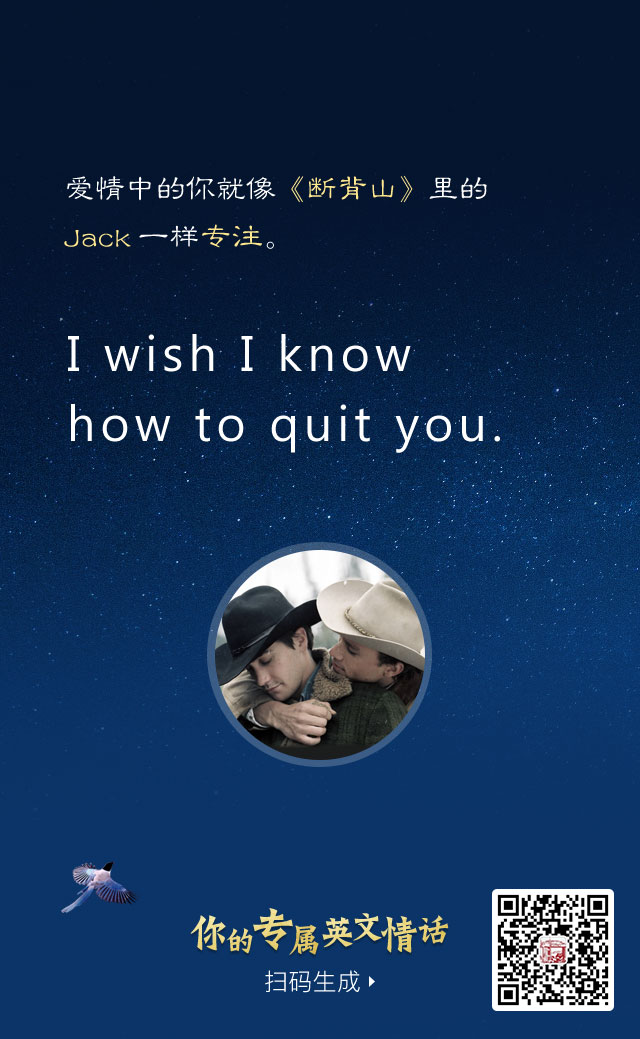
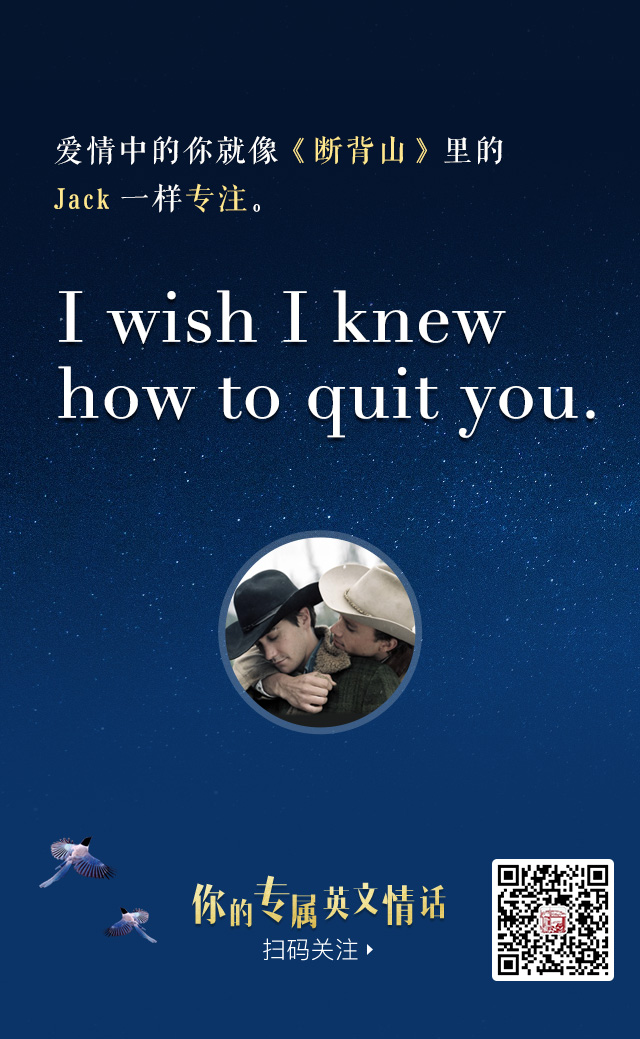
修改

diff --git a/lover/css/index.css b/lover/css/index.css
@@ -1,2 +1,2 @@
-*{padding:0;margin:0}.tipBox{width:100%;height:100%;position:fixed;z-index:100;background:rgba(255,255,255,0);display:flex;flex-direction:column;align-items:center;justify-content:center;top:0;left:0}.tipBox .tibBox_inner{max-width:7.8125rem;background:rgba(0,0,0,0.5)}.tipBox .tibBox_inner p{line-height:.70313rem;font-size:.46875rem;color:#fff;padding:.78125rem;text-align:center}.tip .weui-icon_msg{font-size:3rem;padding-bottom:10px}.weui-toast{position:fixed;z-index:5000;width:4.6875rem;min-height:1.5625rem;top:50%;left:50%;margin-top:-2.34375rem;margin-left:-2.34375rem;background:rgba(17,17,17,0.7);text-align:center;border-radius:5px;color:#FFFFFF}.weui-toast__content{line-height:1.25rem;font-size:15px}.weui-dialog__bd{line-height:2rem}.sign_page_scrollBody::-webkit-scrollbar-track{-webkit-box-shadow:inset 0 0 0px rgba(255,255,255,0.3);border-radius:0px;background-color:rgba(255,255,255,0.3)}.sign_page_scrollBody::-webkit-scrollbar{width:5px;background-color:rgba(0,0,0,0.1)}.sign_page_scrollBody::-webkit-scrollbar-thumb{border-radius:100px;-webkit-box-shadow:inset 0 0 5px #ffffff;background-color:#ffffff}.loading{position:fixed;top:0;left:0;width:100%;height:100%;background:#0c3468;z-index:9999}.loading .progress{position:absolute;color:#ffffff;font-size:20px;width:100%;top:50%;left:0;text-align:center;margin-top:1rem}.loader{position:relative;box-sizing:border-box;display:flex;flex:0 1 auto;flex-direction:column;flex-grow:1;flex-shrink:0;flex-basis:25%;-webkit-display:flex;-webkit-flex:0 1 auto;-webkit-flex-direction:column;-webkit-flex-grow:1;-webkit-flex-shrink:0;-webkit-flex-basis:25%;max-width:60%;height:65px;align-items:center;justify-content:center;margin:0 auto;top:36%}.ball-spin-fade-loader{width:15px;height:15px;position:relative}.ball-spin-fade-loader>div:nth-child(1){top:25px;left:0;-webkit-animation:ball-spin-fade-loader 1s 0s infinite linear;animation:ball-spin-fade-loader 1s 0s infinite linear}.ball-spin-fade-loader>div:nth-child(2){top:17.04545px;left:17.04545px;-webkit-animation:ball-spin-fade-loader 1s 0.12s infinite linear;animation:ball-spin-fade-loader 1s 0.12s infinite linear}.ball-spin-fade-loader>div:nth-child(3){top:0;left:25px;-webkit-animation:ball-spin-fade-loader 1s 0.24s infinite linear;animation:ball-spin-fade-loader 1s 0.24s infinite linear}.ball-spin-fade-loader>div:nth-child(4){top:-17.04545px;left:17.04545px;-webkit-animation:ball-spin-fade-loader 1s 0.36s infinite linear;animation:ball-spin-fade-loader 1s 0.36s infinite linear}.ball-spin-fade-loader>div:nth-child(5){top:-25px;left:0;-webkit-animation:ball-spin-fade-loader 1s 0.48s infinite linear;animation:ball-spin-fade-loader 1s 0.48s infinite linear}.ball-spin-fade-loader>div:nth-child(6){top:-17.04545px;left:-17.04545px;-webkit-animation:ball-spin-fade-loader 1s 0.6s infinite linear;animation:ball-spin-fade-loader 1s 0.6s infinite linear}.ball-spin-fade-loader>div:nth-child(7){top:0;left:-25px;-webkit-animation:ball-spin-fade-loader 1s 0.72s infinite linear;animation:ball-spin-fade-loader 1s 0.72s infinite linear}.ball-spin-fade-loader>div:nth-child(8){top:17.04545px;left:-17.04545px;-webkit-animation:ball-spin-fade-loader 1s 0.84s infinite linear;animation:ball-spin-fade-loader 1s 0.84s infinite linear}.ball-spin-fade-loader>div{background-color:#ffffff;width:15px;height:15px;border-radius:100%;margin:2px;-webkit-animation-fill-mode:both;animation-fill-mode:both;position:absolute}@-webkit-keyframes ball-spin-fade-loader{50%{opacity:0.3;-webkit-transform:scale(0.4);transform:scale(0.4)}100%{opacity:1;-webkit-transform:scale(1);transform:scale(1)}}@keyframes ball-spin-fade-loader{50%{opacity:0.3;-webkit-transform:scale(0.4);transform:scale(0.4)}100%{opacity:1;-webkit-transform:scale(1);transform:scale(1)}}@-webkit-keyframes mapAnimate{0%{background-position:0rem 0rem}100%{background-position:0 -17.53125rem}}@keyframes mapAnimate{0%{background-position:0rem 0rem}100%{background-position:0 -17.53125rem}}@keyframes pulse{0%{-webkit-transform:scale3d(1, 1, 1);-ms-transform:scale3d(1, 1, 1);transform:scale3d(1, 1, 1)}50%{-webkit-transform:scale3d(1.05, 1.05, 1.05);-ms-transform:scale3d(1.05, 1.05, 1.05);transform:scale3d(1.05, 1.05, 1.05)}100%{-webkit-transform:scale3d(1, 1, 1);-ms-transform:scale3d(1, 1, 1);transform:scale3d(1, 1, 1)}}.pulse{-webkit-animation:pulse 1s ease-in infinite;animation:pulse 1s ease-in infinite}@keyframes rotate{0%{-webkit-transform:rotate(0deg);-ms-transform:rotate(0deg);transform:rotate(0deg)}100%{-webkit-transform:rotate(360deg);-ms-transform:rotate(360deg);transform:rotate(360deg)}}.rotate{-webkit-animation:rotate 2s linear infinite;animation:rotate 2s linear infinite}@keyframes drive{0%{left:12.5rem}100%{left:-1.5625rem}}.drive{animation:drive 3s linear both}@keyframes fadeInDown{0%{opacity:0;transform:translate3d(0, -100%, 0)}to{opacity:1;transform:none}}.fadeInDown{animation:fadeInDown 0.5s ease-in both}@keyframes fadeInUp{0%{opacity:0;transform:translate3d(0, 100%, 0)}to{opacity:1;transform:none}}.fadeInUp{animation:fadeInUp 0.5s ease-in both}@keyframes fly{0%{opacity:0;bottom:-12.23438rem}to{opacity:1;bottom:-2.34375rem}}.fly{animation:fly 4s ease-in both}.overPage{animation:overPage 1.5s ease-in infinite}@keyframes overPage{0%{bottom:10%;opacity:1}80%{bottom:3%;opacity:0.8}100%{bottom:0%;opacity:0}}[v-cloak]{display:none}html{width:100%;height:100%}body,#index-box{width:100%;height:100%;overflow:hidden;background:#0c3468}img{width:100%;padding:0;margin:0;display:block}.wrap{margin:0 auto;visibility:hidden}.hide{display:none}.musicBtn{width:.6875rem;height:.6875rem;position:fixed;z-index:10;right:.46875rem;top:.46875rem;background:url(../images/music.png) no-repeat;background-size:100% 100%}.musicBtn.musicClose{background:url(../images/music_CLOSE.png) no-repeat;background-size:100% 100%}#slide01{position:relative;width:100%;height:100%;overflow:hidden;margin:0 auto}#slide01 .content{overflow:hidden;height:400%;width:100%}#slide01 .content li{width:100%;height:25%;overflow:hidden}.page1,.page2{width:100%;height:100%;background-size:cover;background-position:center center;background-repeat:no-repeat;display:-webkit-box;-webkit-box-pack:center;-webkit-box-align:center}.cont{width:100%;height:100%;position:absolute;left:0;top:0;right:0;bottom:0}.cont img{width:100%}#slide01 .content li:nth-child(1){background:#0c3467}#slide01 .content li:nth-child(2){background:#051f58}#slide01 .content li:nth-child(3){background:#0c3468}#slide01 .content li:nth-child(4){background:#0c3468}.iconDown{display:block;position:absolute;bottom:.78125rem;left:4.6875rem;width:.625rem !important}.page2Cover{width:100%;height:100%;position:absolute;left:0;top:0;z-index:3}#slide01 .content li .page1{position:relative;background:url(../images/page1.jpg) no-repeat center top #0b3468;background-size:100% 100%}#slide01 .content li .page1 .imgBox{padding-top:3.23438rem}#slide01 .content li .page1 .img{width:10rem;margin-bottom:.3125rem}#slide01 .content li .page1 .img1{animation-delay:0s}#slide01 .content li .page1 .img2{animation-delay:0.5s}#slide01 .content li .page1 .img3{animation-delay:1s}#slide01 .content li .page1 .img4{animation-delay:1.5s}#slide01 .content li .page1 .img5{animation-delay:2s}#slide01 .content li .page1 .img6{animation-delay:2.5s}#slide01 .content li .page1 .img7{animation-delay:3s}#slide01 .content li .page1 .img8{animation-delay:3.5s}#slide01 .content li .page1 .img9{animation-delay:4s}#slide01 .content li .page1 .zsqh{width:2.14063rem;position:absolute;left:.3125rem;top:.3125rem}#slide01 .content li .page1 .xq{width:7.79688rem;left:1.10156rem;position:absolute;bottom:-2.34375rem}#slide01 .content li .page2{background:url("../images/page2.jpg") no-repeat center top;background-size:100% auto;position:relative}#slide01 .content li .page2 .title{width:6.57813rem;position:absolute;left:1.71094rem;top:4.53125rem}#slide01 .content li .page2 .logo{width:1.125rem;position:absolute;bottom:.78125rem;left:0}input::-webkit-input-placeholder{color:#fffbff}.page3{background:url("../images/page3.jpg") no-repeat center top;background-size:100% auto;position:relative;z-index:2;min-height:100%}.page3 .inputBox{width:7.5625rem;height:2.10938rem;border:.03125rem #fff solid;position:absolute;bottom:2.34375rem;left:1.21875rem;border-radius:.0625rem}.page3 .inputBox img{width:4.65625rem;position:absolute;bottom:.46875rem;left:50%;margin-left:-2.32813rem}.page3 .inputBox input{width:7.5625rem;border:0;margin-top:.3125rem;text-align:center;font-size:.46875rem;background:none;color:#fff}.page3 .sureSubmit{position:absolute;left:1.21875rem;bottom:.78125rem;width:7.5625rem;height:1.0625rem}.page4{position:absolute;width:100%;height:100%;left:0;right:0;bottom:0;top:0;z-index:0;overflow:hidden}.page4.opacity{opacity:0}.page4 .canvasBox{width:100%;height:16.23438rem;position:absolute;left:0;top:0}.page4 .canvas{width:100%;height:100%;position:absolute;left:0;top:0}.page4 .canvas img{position:absolute;left:0;top:0}.page4 .copy{position:absolute;width:3.125rem;position:absolute;top:13.28125rem;left:3.4375rem}.pageSlideBox{width:100%;height:100%;position:relative;z-index:2}
+*{padding:0;margin:0}.tipBox{width:100%;height:100%;position:fixed;z-index:100;background:rgba(255,255,255,0);display:flex;flex-direction:column;align-items:center;justify-content:center;top:0;left:0}.tipBox .tibBox_inner{max-width:7.8125rem;background:rgba(0,0,0,0.5)}.tipBox .tibBox_inner p{line-height:.70313rem;font-size:.46875rem;color:#fff;padding:.78125rem;text-align:center}.tip .weui-icon_msg{font-size:3rem;padding-bottom:10px}.weui-toast{position:fixed;z-index:5000;width:4.6875rem;min-height:1.5625rem;top:50%;left:50%;margin-top:-2.34375rem;margin-left:-2.34375rem;background:rgba(17,17,17,0.7);text-align:center;border-radius:5px;color:#FFFFFF}.weui-toast__content{line-height:1.25rem;font-size:15px}.weui-dialog__bd{line-height:2rem}.sign_page_scrollBody::-webkit-scrollbar-track{-webkit-box-shadow:inset 0 0 0px rgba(255,255,255,0.3);border-radius:0px;background-color:rgba(255,255,255,0.3)}.sign_page_scrollBody::-webkit-scrollbar{width:5px;background-color:rgba(0,0,0,0.1)}.sign_page_scrollBody::-webkit-scrollbar-thumb{border-radius:100px;-webkit-box-shadow:inset 0 0 5px #ffffff;background-color:#ffffff}.loading{position:fixed;top:0;left:0;width:100%;height:100%;background:#0c3468;z-index:9999}.loading .progress{position:absolute;color:#ffffff;font-size:20px;width:100%;top:50%;left:0;text-align:center;margin-top:1rem}.loader{position:relative;box-sizing:border-box;display:flex;flex:0 1 auto;flex-direction:column;flex-grow:1;flex-shrink:0;flex-basis:25%;-webkit-display:flex;-webkit-flex:0 1 auto;-webkit-flex-direction:column;-webkit-flex-grow:1;-webkit-flex-shrink:0;-webkit-flex-basis:25%;max-width:60%;height:65px;align-items:center;justify-content:center;margin:0 auto;top:36%}.ball-spin-fade-loader{width:15px;height:15px;position:relative}.ball-spin-fade-loader>div:nth-child(1){top:25px;left:0;-webkit-animation:ball-spin-fade-loader 1s 0s infinite linear;animation:ball-spin-fade-loader 1s 0s infinite linear}.ball-spin-fade-loader>div:nth-child(2){top:17.04545px;left:17.04545px;-webkit-animation:ball-spin-fade-loader 1s 0.12s infinite linear;animation:ball-spin-fade-loader 1s 0.12s infinite linear}.ball-spin-fade-loader>div:nth-child(3){top:0;left:25px;-webkit-animation:ball-spin-fade-loader 1s 0.24s infinite linear;animation:ball-spin-fade-loader 1s 0.24s infinite linear}.ball-spin-fade-loader>div:nth-child(4){top:-17.04545px;left:17.04545px;-webkit-animation:ball-spin-fade-loader 1s 0.36s infinite linear;animation:ball-spin-fade-loader 1s 0.36s infinite linear}.ball-spin-fade-loader>div:nth-child(5){top:-25px;left:0;-webkit-animation:ball-spin-fade-loader 1s 0.48s infinite linear;animation:ball-spin-fade-loader 1s 0.48s infinite linear}.ball-spin-fade-loader>div:nth-child(6){top:-17.04545px;left:-17.04545px;-webkit-animation:ball-spin-fade-loader 1s 0.6s infinite linear;animation:ball-spin-fade-loader 1s 0.6s infinite linear}.ball-spin-fade-loader>div:nth-child(7){top:0;left:-25px;-webkit-animation:ball-spin-fade-loader 1s 0.72s infinite linear;animation:ball-spin-fade-loader 1s 0.72s infinite linear}.ball-spin-fade-loader>div:nth-child(8){top:17.04545px;left:-17.04545px;-webkit-animation:ball-spin-fade-loader 1s 0.84s infinite linear;animation:ball-spin-fade-loader 1s 0.84s infinite linear}.ball-spin-fade-loader>div{background-color:#ffffff;width:15px;height:15px;border-radius:100%;margin:2px;-webkit-animation-fill-mode:both;animation-fill-mode:both;position:absolute}@-webkit-keyframes ball-spin-fade-loader{50%{opacity:0.3;-webkit-transform:scale(0.4);transform:scale(0.4)}100%{opacity:1;-webkit-transform:scale(1);transform:scale(1)}}@keyframes ball-spin-fade-loader{50%{opacity:0.3;-webkit-transform:scale(0.4);transform:scale(0.4)}100%{opacity:1;-webkit-transform:scale(1);transform:scale(1)}}@-webkit-keyframes mapAnimate{0%{background-position:0rem 0rem}100%{background-position:0 -17.53125rem}}@keyframes mapAnimate{0%{background-position:0rem 0rem}100%{background-position:0 -17.53125rem}}@keyframes pulse{0%{-webkit-transform:scale3d(1, 1, 1);-ms-transform:scale3d(1, 1, 1);transform:scale3d(1, 1, 1)}50%{-webkit-transform:scale3d(1.05, 1.05, 1.05);-ms-transform:scale3d(1.05, 1.05, 1.05);transform:scale3d(1.05, 1.05, 1.05)}100%{-webkit-transform:scale3d(1, 1, 1);-ms-transform:scale3d(1, 1, 1);transform:scale3d(1, 1, 1)}}.pulse{-webkit-animation:pulse 1s ease-in infinite;animation:pulse 1s ease-in infinite}@keyframes rotate{0%{-webkit-transform:rotate(0deg);-ms-transform:rotate(0deg);transform:rotate(0deg)}100%{-webkit-transform:rotate(360deg);-ms-transform:rotate(360deg);transform:rotate(360deg)}}.rotate{-webkit-animation:rotate 2s linear infinite;animation:rotate 2s linear infinite}@keyframes drive{0%{left:12.5rem}100%{left:-1.5625rem}}.drive{animation:drive 3s linear both}@keyframes fadeInDown{0%{opacity:0;transform:translate3d(0, -100%, 0)}to{opacity:1;transform:none}}.fadeInDown{animation:fadeInDown 0.5s ease-in both}@keyframes fadeInUp{0%{opacity:0;transform:translate3d(0, 100%, 0)}to{opacity:1;transform:none}}.fadeInUp{animation:fadeInUp 0.5s ease-in both}@keyframes fly{0%{opacity:0;bottom:-12.23438rem}to{opacity:1;bottom:-2.34375rem}}.fly{animation:fly 4s ease-in both}.overPage{animation:overPage 1.5s ease-in infinite}@keyframes overPage{0%{bottom:10%;opacity:1}80%{bottom:3%;opacity:0.8}100%{bottom:0%;opacity:0}}[v-cloak]{display:none}html{width:100%;height:100%}body,#index-box{width:100%;height:100%;overflow:hidden;background:#0c3468}img{width:100%;padding:0;margin:0;display:block}.wrap{margin:0 auto;visibility:hidden}.hide{display:none}.musicBtn{width:.6875rem;height:.6875rem;position:fixed;z-index:10;right:.46875rem;top:.46875rem;background:url(../images/music.png) no-repeat;background-size:100% 100%}.musicBtn.musicClose{background:url(../images/music_CLOSE.png) no-repeat;background-size:100% 100%}#slide01{position:relative;width:100%;height:100%;overflow:hidden;margin:0 auto}#slide01 .content{overflow:hidden;height:400%;width:100%}#slide01 .content li{width:100%;height:25%;overflow:hidden}.page1,.page2{width:100%;height:100%;background-size:cover;background-position:center center;background-repeat:no-repeat;display:-webkit-box;-webkit-box-pack:center;-webkit-box-align:center}.cont{width:100%;height:100%;position:absolute;left:0;top:0;right:0;bottom:0}.cont img{width:100%}#slide01 .content li:nth-child(1){background:#0c3467}#slide01 .content li:nth-child(2){background:#051f58}#slide01 .content li:nth-child(3){background:#0c3468}#slide01 .content li:nth-child(4){background:#0c3468}.iconDown{display:block;position:absolute;bottom:.78125rem;left:4.6875rem;width:.625rem !important}.page2Cover{width:100%;height:100%;position:absolute;left:0;top:0;z-index:3}#slide01 .content li .page1{position:relative;background:url(../images/page1.jpg) no-repeat center top #0b3468;background-size:100% 100%}#slide01 .content li .page1 .imgBox{padding-top:3.23438rem}#slide01 .content li .page1 .img{width:10rem;margin-bottom:.3125rem}#slide01 .content li .page1 .img1{animation-delay:0s}#slide01 .content li .page1 .img2{animation-delay:0.5s}#slide01 .content li .page1 .img3{animation-delay:1s}#slide01 .content li .page1 .img4{animation-delay:1.5s}#slide01 .content li .page1 .img5{animation-delay:2s}#slide01 .content li .page1 .img6{animation-delay:2.5s}#slide01 .content li .page1 .img7{animation-delay:3s}#slide01 .content li .page1 .zsqh{width:2.07813rem;position:absolute;left:.3125rem;top:.3125rem}#slide01 .content li .page1 .xq{width:7.79688rem;left:1.10156rem;position:absolute;bottom:-2.34375rem}#slide01 .content li .page2{background:url("../images/page2.jpg") no-repeat center top;background-size:100% auto;position:relative}#slide01 .content li .page2 .title{width:6.73438rem;position:absolute;left:1.63281rem;top:4.53125rem}#slide01 .content li .page2 .logo{width:1.125rem;position:absolute;bottom:.78125rem;left:0}input::-webkit-input-placeholder{color:#fffbff}.page3{background:url("../images/page3.jpg") no-repeat center top;background-size:100% auto;position:relative;z-index:2;min-height:100%}.page3 .inputBox{width:7.5625rem;height:2.10938rem;border:.03125rem #fff solid;position:absolute;bottom:2.34375rem;left:1.21875rem;border-radius:.0625rem}.page3 .inputBox img{width:4.65625rem;position:absolute;bottom:.46875rem;left:50%;margin-left:-2.32813rem}.page3 .inputBox input{width:7.5625rem;border:0;margin-top:.3125rem;text-align:center;font-size:.46875rem;background:none;color:#fff}.page3 .sureSubmit{position:absolute;left:1.21875rem;bottom:.78125rem;width:7.5625rem;height:1.0625rem}.page4{position:absolute;width:100%;height:100%;left:0;right:0;bottom:0;top:0;z-index:0;overflow:hidden}.page4.opacity{opacity:0}.page4 .canvasBox{width:100%;height:16.23438rem;position:absolute;left:0;top:0}.page4 .canvas{width:100%;height:100%;position:absolute;left:0;top:0}.page4 .canvas img{position:absolute;left:0;top:0}.page4 .copy{position:absolute;width:3.125rem;position:absolute;top:13.28125rem;left:3.4375rem}.pageSlideBox{width:100%;height:100%;position:relative;z-index:2}
 /*# sourceMappingURL=index.css.map */

diff --git a/lover/index.html b/lover/index.html
@@ -4,7 +4,7 @@
     <meta charset="UTF-8">
     <meta name="viewport" content="initial-scale=1, maximum-scale=1, user-scalable=no">
     <meta http-equiv="X-UA-Compatible" content="ie=edge">
-    <title>我的环游世界旅行照</title>
+    <title>你的专属英文情话</title>
     <script src="./js/flexible.js"></script>
     <script src="./js/underscore-min.js"></script>
     <script src="./js/zepto.min.js"></script>
@@ -26,14 +26,14 @@
                                 <img class="xq fly" src="./images/xq.png" alt="">
                                 <div class="imgBox">
                                     <img class="img img1 fadeInUp" src="./images/page1_1.png" alt="">
-                                    <img class="img img2 fadeInUp" src="./images/page1_1.png" alt="">
-                                    <img class="img img3 fadeInUp" src="./images/page1_1.png" alt="">
-                                    <img class="img img4 fadeInUp" src="./images/page1_1.png" alt="">
-                                    <img class="img img5 fadeInUp" src="./images/page1_1.png" alt="">
-                                    <img class="img img6 fadeInUp" src="./images/page1_1.png" alt="">
-                                    <img class="img img7 fadeInUp" src="./images/page1_1.png" alt="">
-                                    <img class="img img8 fadeInUp" src="./images/page1_1.png" alt="">
-                                    <img class="img img9 fadeInUp" src="./images/page1_1.png" alt="">
+                                    <img class="img img2 fadeInUp" src="./images/page1_2.png" alt="">
+                                    <img class="img img3 fadeInUp" src="./images/page1_3.png" alt="">
+                                    <img class="img img4 fadeInUp" src="./images/page1_4.png" alt="">
+                                    <img class="img img5 fadeInUp" src="./images/page1_5.png" alt="">
+                                    <img class="img img6 fadeInUp" src="./images/page1_6.png" alt="">
+                                    <img class="img img7 fadeInUp" src="./images/page1_7.png" alt="">
+                                    <!-- <img class="img img8 fadeInUp" src="./images/page1_1.png" alt="">
+                                    <img class="img img9 fadeInUp" src="./images/page1_1.png" alt=""> -->
                                 </div>
                                 <img src="./images/iconDown.png" class="iconDown overPage" alt="">
                             </div>
@@ -44,6 +44,7 @@
                             <div class="cont hide">
                                 <img class="title" src="./images/title.png" alt="">
                                 <img src="./images/page2_logo.png" class="logo" alt="">
+                                <img src="./images/iconDown.png" class="iconDown overPage" alt="">
                             </div>
                         </div>
                     </li>

diff --git a/lover/css/index.scss b/lover/css/index.scss
@@ -112,14 +112,14 @@ img{
                 .img7{
                     animation-delay: 3s;
                 }
-                .img8{
-                    animation-delay: 3.5s;
-                }
-                .img9{
-                    animation-delay: 4s;
-                }
+                // .img8{
+                //     animation-delay: 3.5s;
+                // }
+                // .img9{
+                //     animation-delay: 4s;
+                // }
                 .zsqh{
-                    width: REM(137);
+                    width: REM(133);
                     position: absolute;
                     left: REM(20);
                     top: REM(20);
@@ -136,9 +136,9 @@ img{
                 background-size: 100% auto;
                 position: relative;
                 .title{
-                    width: REM(421);
+                    width: REM(431);
                     position: absolute;
-                    left: REMTWO(421);
+                    left: REMTWO(431);
                     top: REM(290);
                 }
                 .logo{
